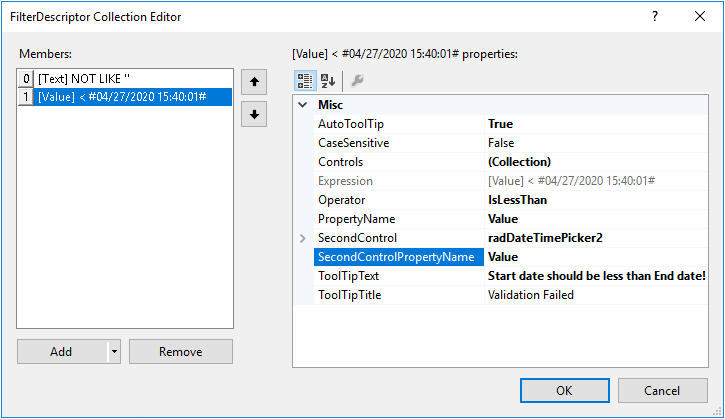
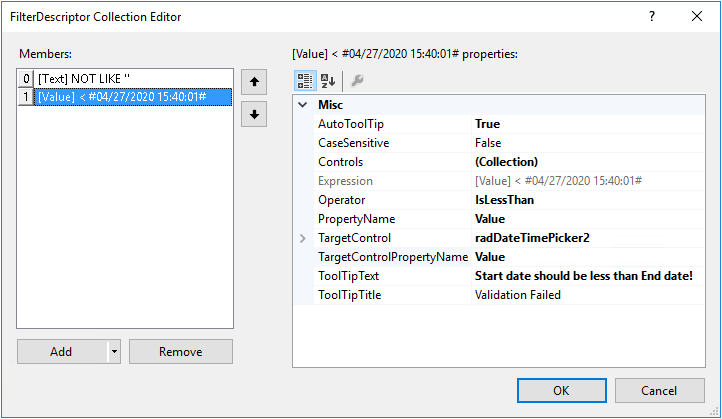
Validation provider replaced images

diff --git a/controls/validation-provider/getting-started.md b/controls/validation-provider/getting-started.md
@@ -38,17 +38,17 @@ This article will give you getting started experience with **RadValidationProvid
 
 	![validation-provider-getting-started 007](images/validation-provider-getting-started007.png) 
 
-	>note The data type of the **Value** can be specified after entering a value from drop down. 
+	>note The data type of the **Value** can be specified after entering a value from the drop down. 
 
 7. If you start the application now, focus the **RadTextBox** control, leave it empty and try to navigate to another control, the validation will fail. It would be necessary to enter some text before proceeding further:
 
 	![validation-provider-getting-started 006](images/validation-provider-getting-started006.png) 
 
-8. Add a second validation rule. But this time add a **RadValidationRuleWithSecondControl**:
+8. Add a second validation rule. But this time add a **RadValidationRuleWithTargetControl**:
 
 	![validation-provider-getting-started 008](images/validation-provider-getting-started008.png) 
 
-9. In the **Controls** drop down list, select **radDateTimePicker1**. In the **SecondControl** drop down list, select **radDateTimePicker2**. Set the **Operator** to *IsLessThan*. Specify the **PropertyName** and **SecondControlPropertyName** to *Value* and what **ToolTipText** to be displayed when the validation failed. 
+9. In the **Controls** drop down list, select **radDateTimePicker1**. In the **TargetControl** drop down list, select **radDateTimePicker2**. Set the **Operator** to *IsLessThan*. Specify the **PropertyName** and **TargetControlPropertyName** to *Value* and what **ToolTipText** to be displayed when the validation failed. 
 
 	![validation-provider-getting-started 009](images/validation-provider-getting-started009.png) 
 

diff --git a/controls/validation-provider/validation-rules.md b/controls/validation-provider/validation-rules.md
@@ -156,10 +156,10 @@ In order to cover the case that the second **RadDateTimePicker** is greater than
 **RadCompositeValidationRule** allows you to define a collection of multiple validation rules added to the **ValidationRules** collection. 
 
 
-The following code snippet demonstrates how to define a **RadCompositeValidationRule** composed of two **RadValidationRuleWithTargetControls** and one **RadValidationRule** ensuring that **Car Price** (radSpinEditor1) is greater than **Minimum Price** (radSpinEditor2) and less than **Maximum Price** (radSpinEditor3). In addition, the price cannot be equal to *10 000*:
+The following code snippet demonstrates how to define a **RadCompositeValidationRule** composed of two **RadValidationRuleWithTargetControls** and one **RadValidationRule** ensuring that **Car Price** (radSpinEditor1) is greater than **Minimum Price** (radSpinEditor2) and less than **Maximum Price** (radSpinEditor3). In addition, the price cannot be equal to *5000*:
  
 >caution
-None of the associated controls (e.g. radSpinEditor1) of a composite rule should be added as a target in any the nested rules!
+None of the associated controls (e.g. radSpinEditor1) of a composite rule should be added as a target in any of the nested rules! Please be careful when defining composite rules in order to get the proper validation logic. Usually, it is even possible to simplify the validation logic and define separate **RadValidationRuleWithTargetControls** outside a composite rule.
 >
 
 {{source=..\SamplesCS\ValidationProvider\ValidationProviderGettingStarted.cs region=CompositeRule}} 

diff --git a/controls/validation-provider/design-time.md b/controls/validation-provider/design-time.md
@@ -1,0 +1,20 @@
+---
+title: Design Time
+page_title: Design Time | Validation Provider
+description:  
+slug: validation-provider-design-time
+tags: validation, design time
+published: True
+position: 4 
+---
+
+# Design Time
+
+
+
+# See Also
+
+* [Getting Started]({%slug validation-provider-getting-started%})
+* [Validation Rules]({%slug validation-provider-validation-rules%})
+ 
+        
